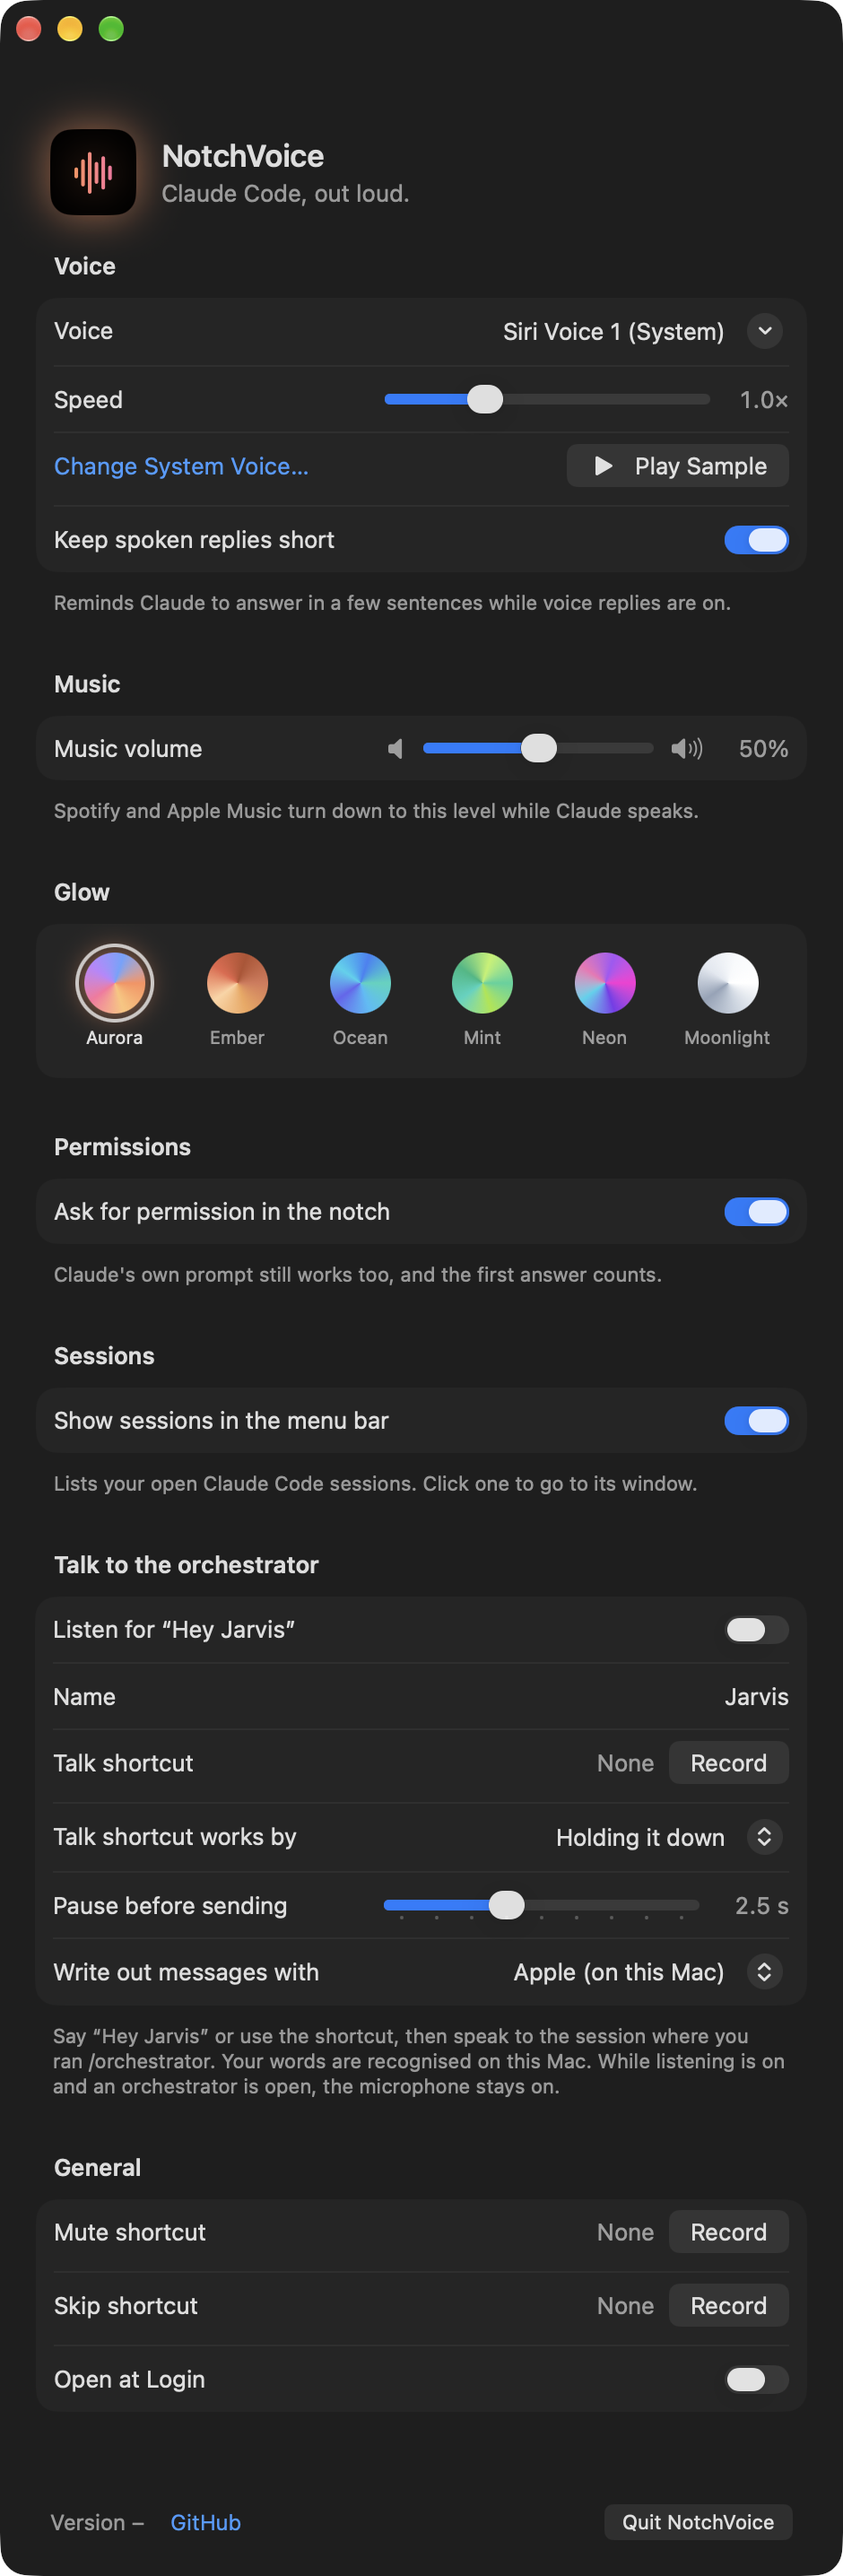
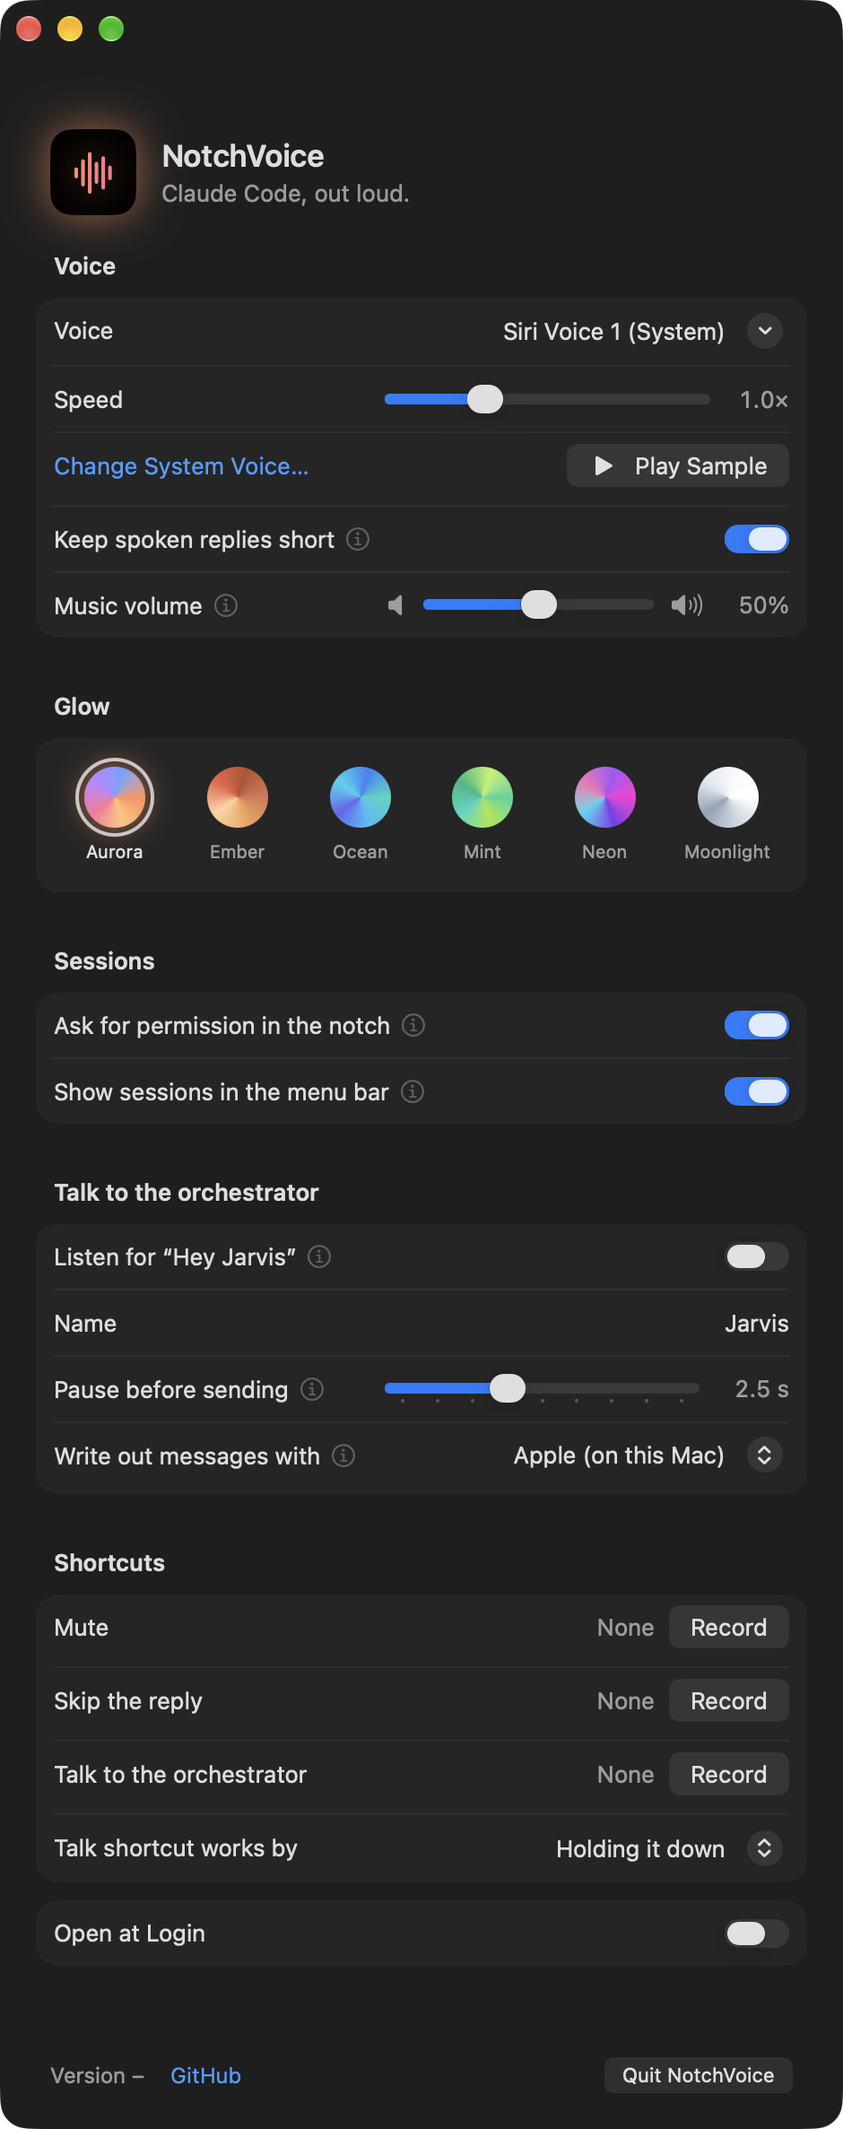
Tidy the settings window: info buttons and one Shortcuts section (#20)
The explanation lines under each section move behind small info buttons, permissions and the session list share one
section, music volume joins the voice settings, and the mute, skip and talk shortcuts sit together. The window is about
250 points shorter. The idea comes from Simon's #13.

diff --git a/Sources/NotchVoice/SettingsView.swift b/Sources/NotchVoice/SettingsView.swift
@@ -43,9 +43,9 @@ final class SettingsWindowController {
 }
 
 struct SettingsView: View {
-    static let size = CGSize(width: 470, height: 1384)
-    /// The room the Wispr Flow row and its longer footer take, when Wispr Flow is installed.
-    static let wisprFlowHeight: CGFloat = 52
+    static let size = CGSize(width: 470, height: 1150)
+    /// The room the Wispr Flow row takes, when Wispr Flow is installed.
+    static let wisprFlowHeight: CGFloat = 37
     private static let spokenContentSettings = URL(string: "x-apple.systempreferences:com.apple.Accessibility-Settings.extension?SpokenContent")!
 
     @ObservedObject var voice: VoiceController
@@ -58,7 +58,7 @@ struct SettingsView: View {
         VStack(spacing: 0) {
             header
             Form {
-                Section {
+                Section("Voice") {
                     LabeledContent("Voice") { voiceMenu }
                     LabeledContent("Speed") {
                         HStack(spacing: 10) {
@@ -76,14 +76,12 @@ struct SettingsView: View {
                             .buttonStyle(.link)
                             .help("Opens Spoken Content in System Settings, where your Mac's voice is chosen")
                     }
-                    Toggle("Keep spoken replies short", isOn: keepsRepliesShort)
-                } header: {
-                    Text("Voice")
-                } footer: {
-                    Text("Reminds Claude to answer in a few sentences while voice replies are on.")
-                }
-                Section {
-                    LabeledContent("Music volume") {
+                    LabeledContent {
+                        Toggle("Keep spoken replies short", isOn: keepsRepliesShort).labelsHidden().toggleStyle(.switch)
+                    } label: {
+                        InfoLabel("Keep spoken replies short", info: "Reminds Claude to answer in a few sentences while voice replies are on.")
+                    }
+                    LabeledContent {
                         HStack(spacing: 8) {
                             Image(systemName: "speaker.fill").foregroundStyle(.secondary)
                             Slider(value: musicVolume, in: 0...1)
@@ -93,31 +91,34 @@ struct SettingsView: View {
                                 .foregroundStyle(.secondary)
                                 .frame(width: 38, alignment: .trailing)
                         }
+                    } label: {
+                        InfoLabel("Music volume", info: "Spotify and Apple Music turn down to this level while Claude speaks.")
                     }
-                } header: {
-                    Text("Music")
-                } footer: {
-                    Text("Spotify and Apple Music turn down to this level while Claude speaks.")
                 }
                 Section("Glow") {
                     themePicker
                 }
-                Section {
-                    Toggle("Ask for permission in the notch", isOn: asksForPermission)
-                } header: {
-                    Text("Permissions")
-                } footer: {
-                    Text("Claude's own prompt still works too, and the first answer counts.")
+                Section("Sessions") {
+                    LabeledContent {
+                        Toggle("Ask for permission in the notch", isOn: asksForPermission).labelsHidden().toggleStyle(.switch)
+                    } label: {
+                        InfoLabel("Ask for permission in the notch", info: "Claude's own prompt still works too, and the first answer counts.")
+                    }
+                    LabeledContent {
+                        Toggle("Show sessions in the menu bar", isOn: showsSessionsInMenuBar).labelsHidden().toggleStyle(.switch)
+                    } label: {
+                        InfoLabel("Show sessions in the menu bar", info: "Lists your open Claude Code sessions. Click one to go to its window.")
+                    }
                 }
-                Section {
-                    Toggle("Show sessions in the menu bar", isOn: showsSessionsInMenuBar)
-                } header: {
-                    Text("Sessions")
-                } footer: {
-                    Text("Lists your open Claude Code sessions. Click one to go to its window.")
-                }
-                Section {
-                    Toggle("Listen for \u{201C}\(TalkPhrases.wakePhrase(preferences.wakeName))\u{201D}", isOn: listensForWakePhrase)
+                Section("Talk to the orchestrator") {
+                    LabeledContent {
+                        Toggle(listenTitle, isOn: listensForWakePhrase).labelsHidden().toggleStyle(.switch)
+                    } label: {
+                        InfoLabel(listenTitle, info: talkInfo)
+                        if preferences.listensForWakePhrase {
+                            Text("The microphone stays on while an orchestrator is open.")
+                        }
+                    }
                     LabeledContent("Name") {
                         TextField("Name", text: $wakeNameDraft, prompt: Text(Preferences.defaultWakeName))
                             .labelsHidden()
@@ -130,8 +131,46 @@ struct SettingsView: View {
                             }
                             .onDisappear(perform: saveWakeName)
                     }
+                    LabeledContent {
+                        HStack(spacing: 10) {
+                            Slider(value: pauseBeforeSending, in: TalkPolicy.pauses, step: 0.5)
+                            Text(String(format: "%.1f s", preferences.pauseBeforeSending))
+                                .monospacedDigit()
+                                .foregroundStyle(.secondary)
+                                .frame(width: 40, alignment: .trailing)
+                        }
+                    } label: {
+                        InfoLabel("Pause before sending", info: "How long a pause sends a message after \(wakePhrase) or a press of the talk shortcut. Holding the shortcut down sends when you let go.")
+                    }
+                    if preferences.hasWisprFlow {
+                        LabeledContent {
+                            Picker("Write out messages with", selection: transcriber) {
+                                Text("Apple (on this Mac)").tag(Transcriber.apple)
+                                Text("Wispr Flow").tag(Transcriber.wisprFlow)
+                            }
+                            .labelsHidden()
+                            .fixedSize()
+                        } label: {
+                            InfoLabel("Write out messages with", info: "Apple's recognizer works on this Mac. With Wispr Flow, wait for the sound before you speak: Wispr Flow writes out your message, and NotchVoice keeps the keyboard until it\u{2019}s done.")
+                        }
+                    }
+                }
+                .onAppear { wakeNameDraft = preferences.wakeName }
+                Section("Shortcuts") {
                     ShortcutRecorder(
-                        title: "Talk shortcut",
+                        title: "Mute",
+                        shortcut: preferences.muteShortcut,
+                        setShortcut: preferences.setMuteShortcut,
+                        pauseShortcut: preferences.pauseShortcuts
+                    )
+                    ShortcutRecorder(
+                        title: "Skip the reply",
+                        shortcut: preferences.skipShortcut,
+                        setShortcut: preferences.setSkipShortcut,
+                        pauseShortcut: preferences.pauseShortcuts
+                    )
+                    ShortcutRecorder(
+                        title: "Talk to the orchestrator",
                         shortcut: preferences.talkShortcut,
                         setShortcut: preferences.setTalkShortcut,
                         pauseShortcut: preferences.pauseShortcuts
@@ -140,41 +179,8 @@ struct SettingsView: View {
                         Text("Holding it down").tag(TalkMode.hold)
                         Text("Pressing it to start").tag(TalkMode.press)
                     }
-                    LabeledContent("Pause before sending") {
-                        HStack(spacing: 10) {
-                            Slider(value: pauseBeforeSending, in: TalkPolicy.pauses, step: 0.5)
-                            Text(String(format: "%.1f s", preferences.pauseBeforeSending))
-                                .monospacedDigit()
-                                .foregroundStyle(.secondary)
-                                .frame(width: 40, alignment: .trailing)
-                        }
-                    }
-                    .help("How long a pause sends a message after \u{201C}\(TalkPhrases.wakePhrase(preferences.wakeName))\u{201D} or a press of the talk shortcut. Holding the shortcut down sends when you let go.")
-                    if preferences.hasWisprFlow {
-                        Picker("Write out messages with", selection: transcriber) {
-                            Text("Apple (on this Mac)").tag(Transcriber.apple)
-                            Text("Wispr Flow").tag(Transcriber.wisprFlow)
-                        }
-                    }
-                } header: {
-                    Text("Talk to the orchestrator")
-                } footer: {
-                    Text(talkFooter)
                 }
-                .onAppear { wakeNameDraft = preferences.wakeName }
-                Section("General") {
-                    ShortcutRecorder(
-                        title: "Mute shortcut",
-                        shortcut: preferences.muteShortcut,
-                        setShortcut: preferences.setMuteShortcut,
-                        pauseShortcut: preferences.pauseShortcuts
-                    )
-                    ShortcutRecorder(
-                        title: "Skip shortcut",
-                        shortcut: preferences.skipShortcut,
-                        setShortcut: preferences.setSkipShortcut,
-                        pauseShortcut: preferences.pauseShortcuts
-                    )
+                Section {
                     Toggle("Open at Login", isOn: opensAtLogin)
                 }
             }
@@ -325,13 +331,16 @@ struct SettingsView: View {
         Binding(get: { preferences.transcriber }, set: { preferences.setTranscriber($0) })
     }
 
-    private var talkFooter: String {
-        let phrase = "\u{201C}\(TalkPhrases.wakePhrase(preferences.wakeName))\u{201D}"
-        let microphone = "While listening is on and an orchestrator is open, the microphone stays on."
-        guard preferences.hasWisprFlow, preferences.transcriber == .wisprFlow else {
-            return "Say \(phrase) or use the shortcut, then speak to the session where you ran /orchestrator. Your words are recognised on this Mac. \(microphone)"
-        }
-        return "Say \(phrase) or use the shortcut, wait for the sound, then speak to the session where you ran /orchestrator. Wispr Flow writes out your message, and NotchVoice keeps the keyboard until it\u{2019}s done. \(microphone)"
+    private var wakePhrase: String {
+        "\u{201C}\(TalkPhrases.wakePhrase(preferences.wakeName))\u{201D}"
+    }
+
+    private var listenTitle: String {
+        "Listen for \(wakePhrase)"
+    }
+
+    private var talkInfo: String {
+        "Say \(wakePhrase) or use the talk shortcut, then speak to the session where you ran /orchestrator."
     }
 
     private func saveWakeName() {
@@ -341,5 +350,50 @@ struct SettingsView: View {
 
     private var opensAtLogin: Binding<Bool> {
         Binding(get: { preferences.opensAtLogin }, set: { preferences.setOpensAtLogin($0) })
+    }
+}
+
+/// A setting's name with a small info button, so the window keeps to short labels and the longer explanation is a
+/// click or a hover away.
+struct InfoLabel: View {
+    let title: String
+    let info: String
+
+    init(_ title: String, info: String) {
+        self.title = title
+        self.info = info
+    }
+
+    var body: some View {
+        HStack(spacing: 5) {
+            Text(title)
+            InfoButton(about: title, text: info)
+        }
+    }
+}
+
+struct InfoButton: View {
+    let about: String
+    let text: String
+    @State private var isShown = false
+
+    var body: some View {
+        Button {
+            isShown.toggle()
+        } label: {
+            Image(systemName: "info.circle")
+                .foregroundStyle(.secondary)
+        }
+        .buttonStyle(.borderless)
+        .help(text)
+        .accessibilityLabel("About \(about)")
+        .accessibilityHint(text)
+        .popover(isPresented: $isShown, arrowEdge: .bottom) {
+            Text(text)
+                .font(.callout)
+                .frame(width: 260, alignment: .leading)
+                .fixedSize(horizontal: false, vertical: true)
+                .padding(14)
+        }
     }
 }

diff --git a/README.md b/README.md
@@ -66,10 +66,10 @@ Set a keyboard shortcut once, then press it anywhere to turn voice replies on or
   <img src="docs/shortcut.png" alt="Pressing Option-Command-M switches voice replies in the notch from on to off" width="820">
 </p>
 
-To set it, open settings, click **Record** next to **Mute shortcut**, and press the keys you want. The shortcut needs at least one of ⌘, ⌥ or ⌃. Press Esc to cancel, and click ✕ to remove the shortcut. It doesn't need any extra macOS permissions.
+To set it, open settings, click **Record** next to **Mute** under **Shortcuts**, and press the keys you want. The shortcut needs at least one of ⌘, ⌥ or ⌃. Press Esc to cancel, and click ✕ to remove the shortcut. It doesn't need any extra macOS permissions.
 
 <p align="center">
-  <img src="docs/shortcut-settings.png" alt="The Mute shortcut row in NotchVoice settings, set to Option-Command-M" width="470">
+  <img src="docs/shortcut-settings.png" alt="The Mute row in the Shortcuts section of NotchVoice settings, set to Option-Command-M" width="470">
 </p>
 
 ## Sessions
@@ -144,7 +144,7 @@ This works in the Claude desktop app only. The claude.ai website and the mobile 
 Click the cog in the notch to open settings. Changes apply to the next reply, with no restart needed.
 
 <p align="center">
-  <img src="docs/settings.png" alt="The NotchVoice settings window with voice, speed, short replies, music volume, glow theme, permission, sessions, talk to the orchestrator, and mute and skip shortcut settings" width="470">
+  <img src="docs/settings.png" alt="The NotchVoice settings window with sections for the voice and music volume, the glow theme, sessions and permissions, talking to the orchestrator, and shortcuts" width="470">
 </p>
 
 - **Voice.** By default NotchVoice uses your Mac's own spoken content voice, and the menu shows its name, for example "Siri Voice 1 (System)". **Change System Voice…** opens the Spoken Content page in System Settings, where that voice is chosen. You can also choose any other installed macOS voice, and you hear a short sample as soon as you pick one.
@@ -152,11 +152,11 @@ Click the cog in the notch to open settings. Changes apply to the next reply, wi
 - **Short replies.** Turn the "keep spoken replies short" reminder on or off. It's on by default.
 - **Music volume.** Choose how loud Spotify and Apple Music stay while Claude speaks, from silent to unchanged.
 - **Glow.** Choose from six colour themes. The notch lights up briefly to preview the one you pick.
-- **Permissions.** Turn permission requests in the notch on or off.
-- **Sessions.** Show or hide your sessions in the menu bar.
-- **Talk to the orchestrator.** Turn "Hey Jarvis" listening on or off, give it another name, set the talk shortcut and whether you hold or press it, choose how long a pause sends a message (1 to 5 seconds, 2.5 by default), and choose whether your Mac or Wispr Flow writes out your messages.
-- **Mute shortcut.** Set a keyboard shortcut that turns voice replies on or off from anywhere.
-- **Skip shortcut.** Set a keyboard shortcut that skips the reply being read aloud.
+- **Sessions.** Turn permission requests in the notch on or off, and show or hide your sessions in the menu bar.
+- **Talk to the orchestrator.** Turn "Hey Jarvis" listening on or off, give it another name, choose how long a pause sends a message (1 to 5 seconds, 2.5 by default), and choose whether your Mac or Wispr Flow writes out your messages.
+- **Shortcuts.** Set keyboard shortcuts that turn voice replies on or off, skip the reply being read aloud, and talk to the orchestrator, and choose whether you hold the talk shortcut or press it.
+
+The ⓘ next to a setting explains it.
 
 <p align="center">
   <img src="docs/themes.png" alt="The six glow themes around a notch: Aurora, Ember, Ocean, Mint, Neon and Moonlight" width="820">
